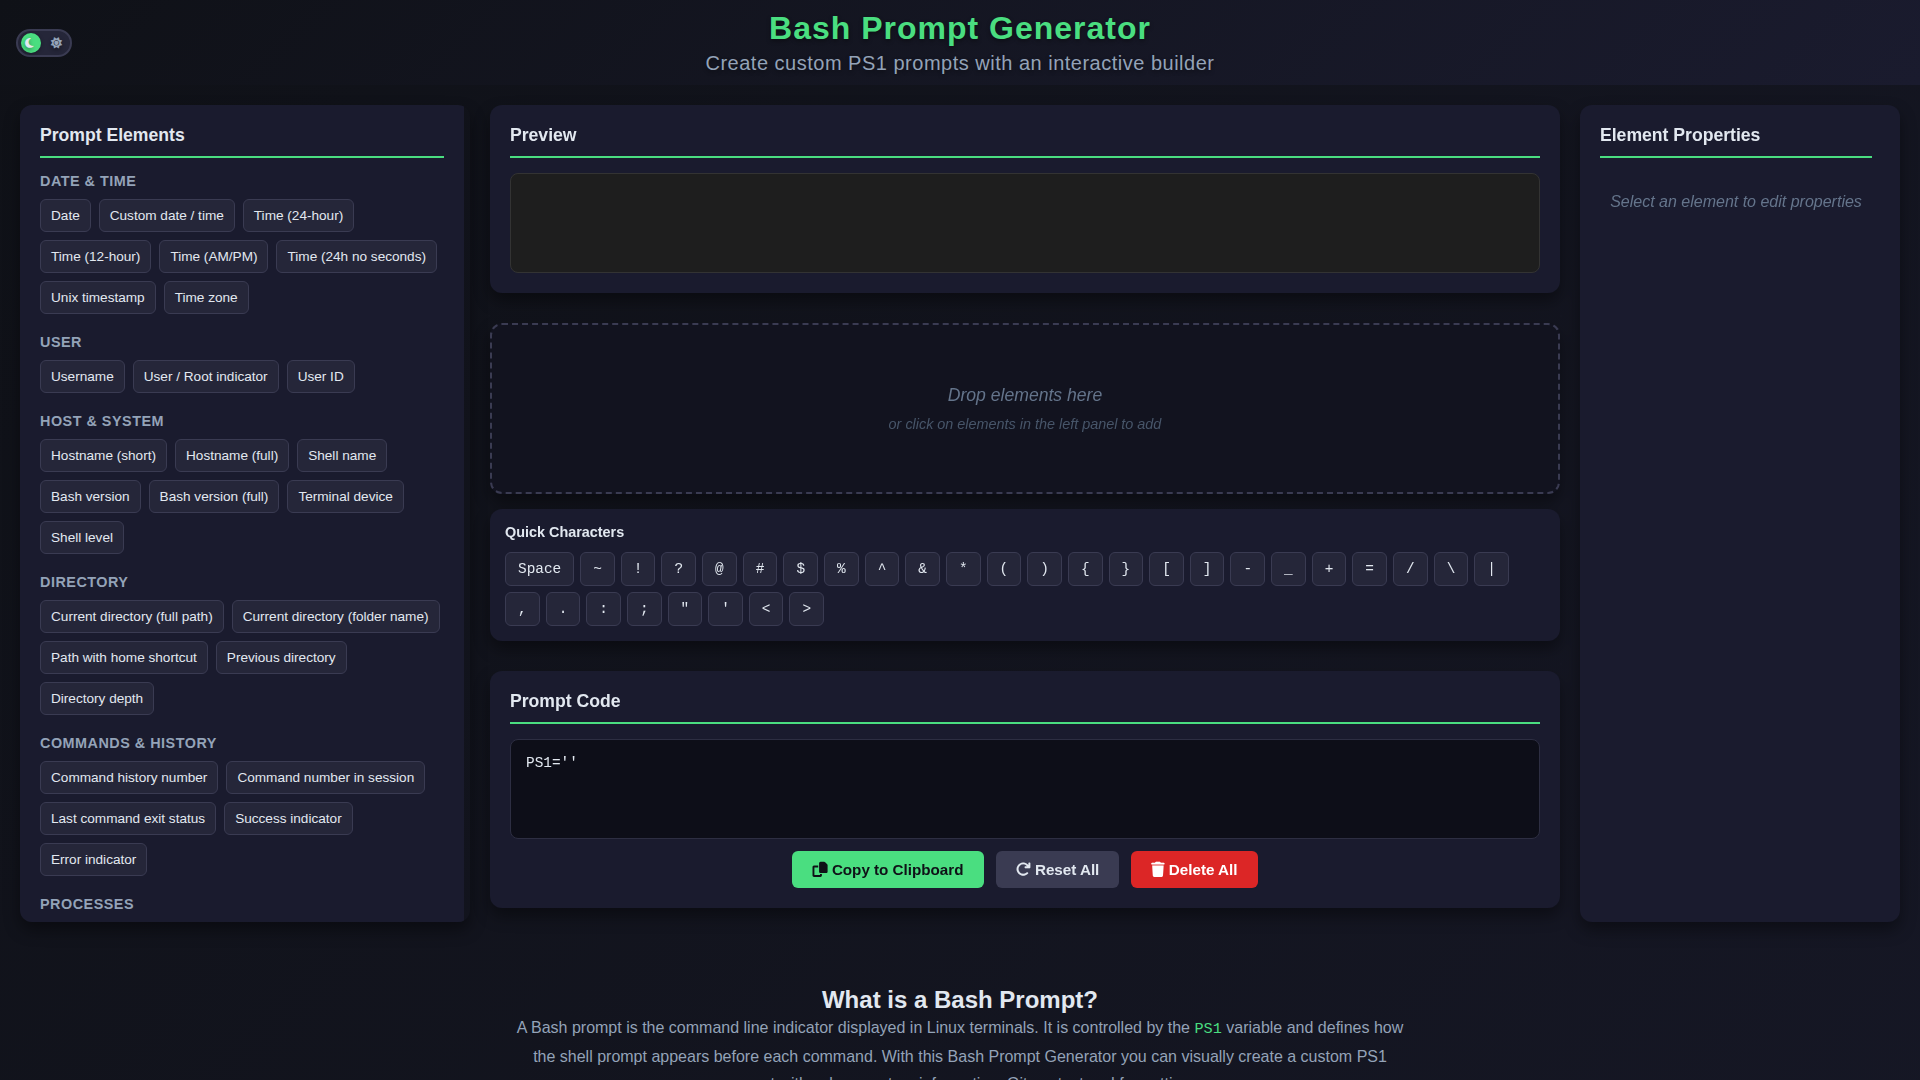
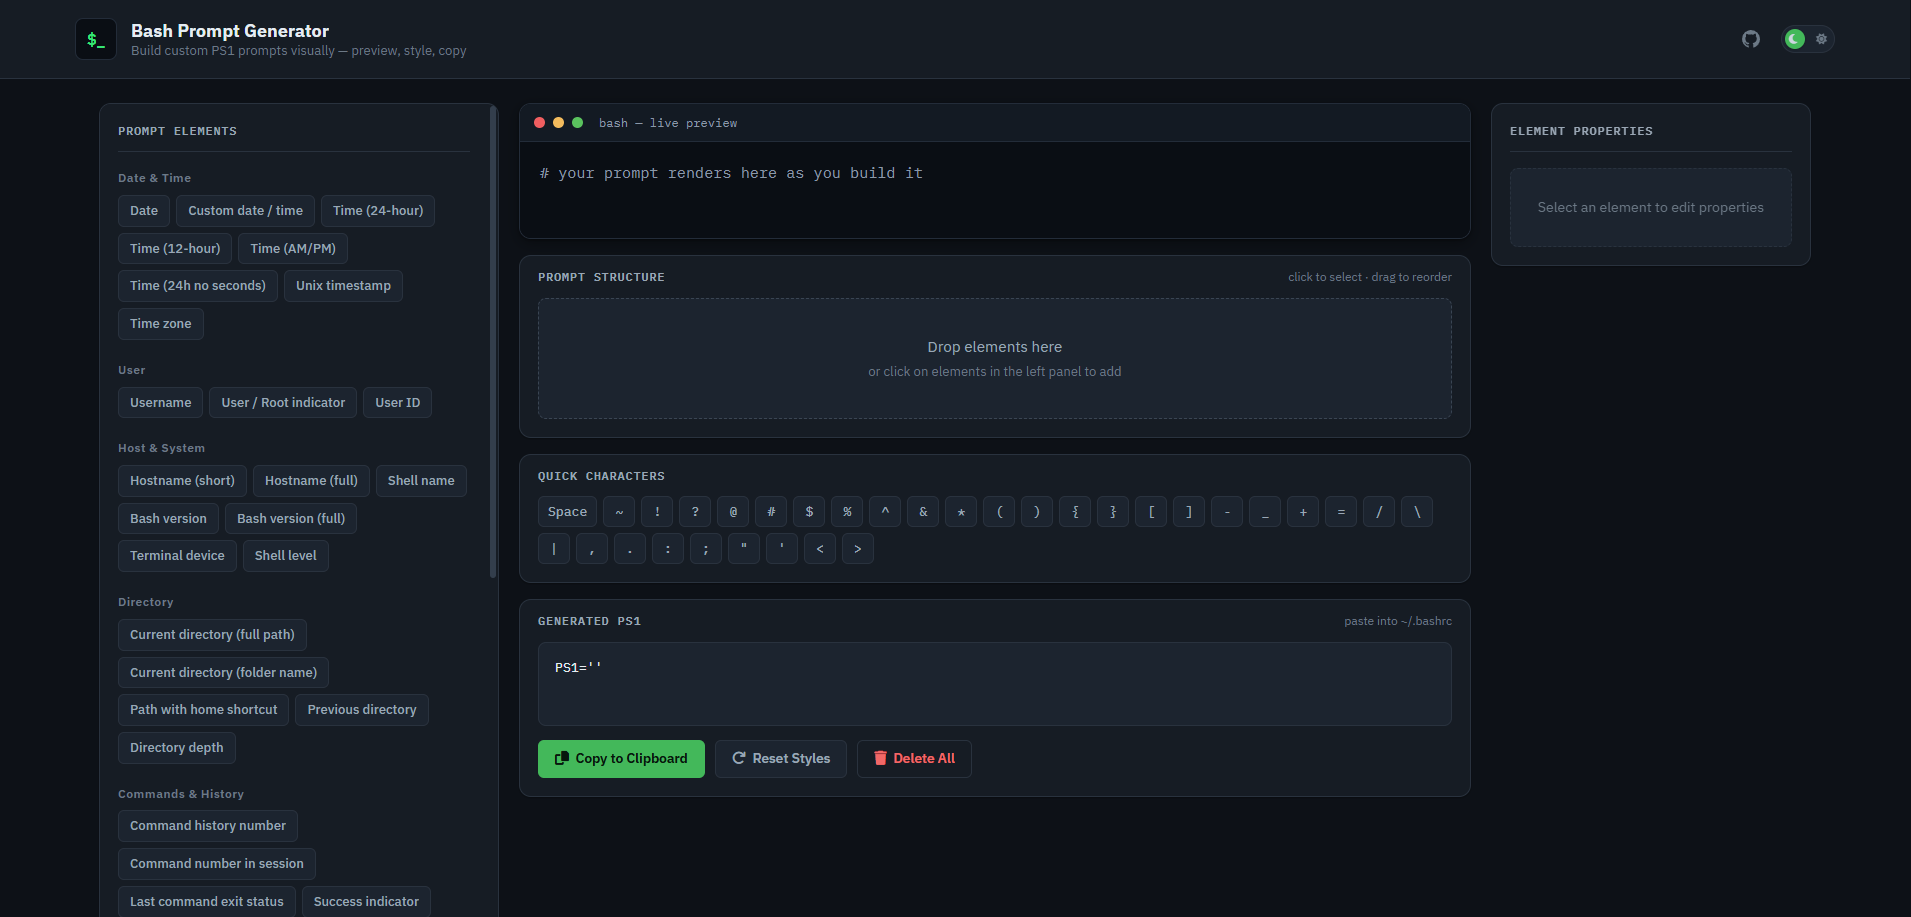
Update index.html and screenshot.png

diff --git a/index.html b/index.html
@@ -5,7 +5,21 @@
 
     <meta name="viewport" content="width=device-width, initial-scale=1.0">
 
-    <title>Bash Prompt Generator</title>
+    <title>Bash Prompt Generator – Create Custom PS1 Prompts Online</title>
+    <meta name="description" content="Visually build a custom Bash PS1 prompt: pick elements like user, host, directory, time, Git branch and exit status, style them with colors, and copy the ready-to-use PS1 code straight into your .bashrc.">
+    <link rel="canonical" href="https://neikiri.dev/bash-prompt-generator/">
+
+    <link rel="icon" type="image/svg+xml" href="assets/img/favicon.svg">
+
+    <meta property="og:type" content="website">
+    <meta property="og:site_name" content="Bash Prompt Generator">
+    <meta property="og:title" content="Bash Prompt Generator – Create Custom PS1 Prompts Online">
+    <meta property="og:description" content="Visually build a custom Bash PS1 prompt: pick elements like user, host, directory, time, Git branch and exit status, style them with colors, and copy the ready-to-use PS1 code straight into your .bashrc.">
+    <meta property="og:url" content="https://neikiri.dev/bash-prompt-generator/">
+
+    <meta name="twitter:card" content="summary">
+    <meta name="twitter:title" content="Bash Prompt Generator – Create Custom PS1 Prompts Online">
+    <meta name="twitter:description" content="Visually build a custom Bash PS1 prompt: pick elements like user, host, directory, time, Git branch and exit status, style them with colors, and copy the ready-to-use PS1 code straight into your .bashrc.">
 
     <link rel="stylesheet" href="https://cdnjs.cloudflare.com/ajax/libs/font-awesome/6.4.0/css/all.min.css">
     <link rel="preconnect" href="https://fonts.googleapis.com">
@@ -23,6 +37,28 @@
     </script>
 
     <script src="https://cdn.jsdelivr.net/npm/sortablejs@latest/Sortable.min.js"></script>
+
+    <script type="application/ld+json">
+    {
+        "@context": "https://schema.org",
+        "@type": "WebApplication",
+        "name": "Bash Prompt Generator",
+        "url": "https://neikiri.dev/bash-prompt-generator/",
+        "description": "Visually build a custom Bash PS1 prompt: pick elements like user, host, directory, time, Git branch and exit status, style them with colors, and copy the ready-to-use PS1 code straight into your .bashrc.",
+        "applicationCategory": "DeveloperApplication",
+        "operatingSystem": "Any",
+        "offers": {
+            "@type": "Offer",
+            "price": "0",
+            "priceCurrency": "USD"
+        },
+        "author": {
+            "@type": "Person",
+            "name": "neikiri",
+            "url": "https://neikiri.dev"
+        }
+    }
+    </script>
 
 </head>
 <body>